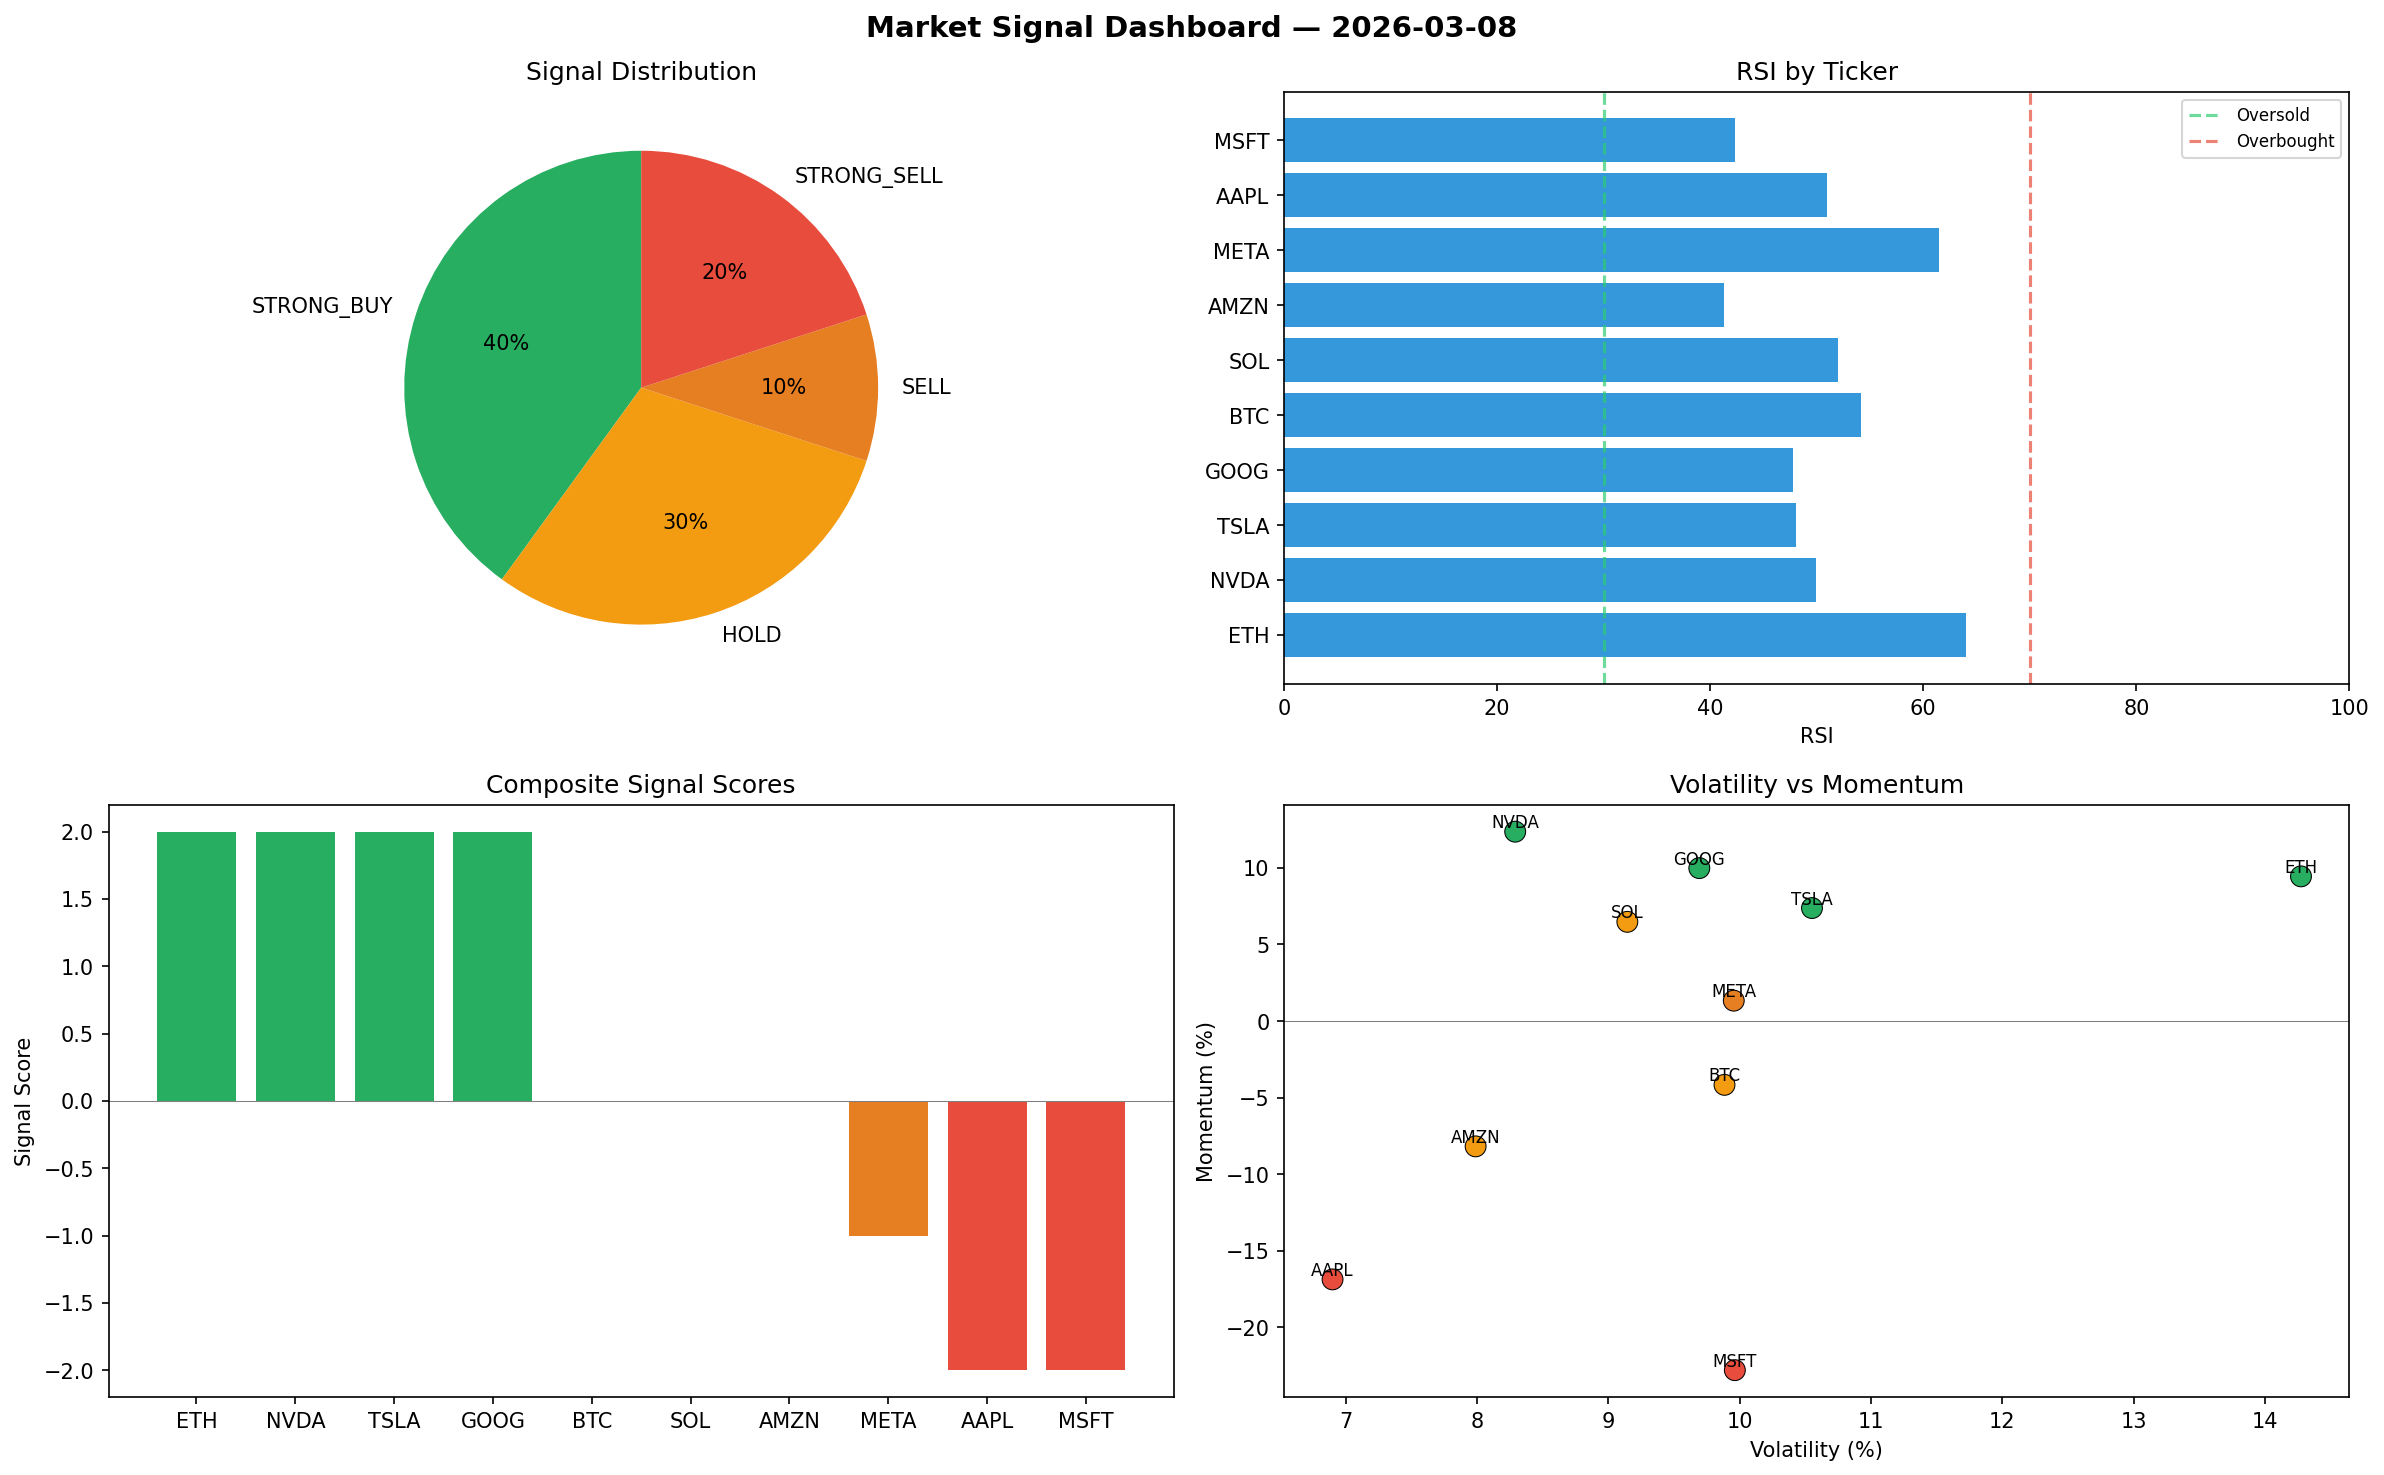
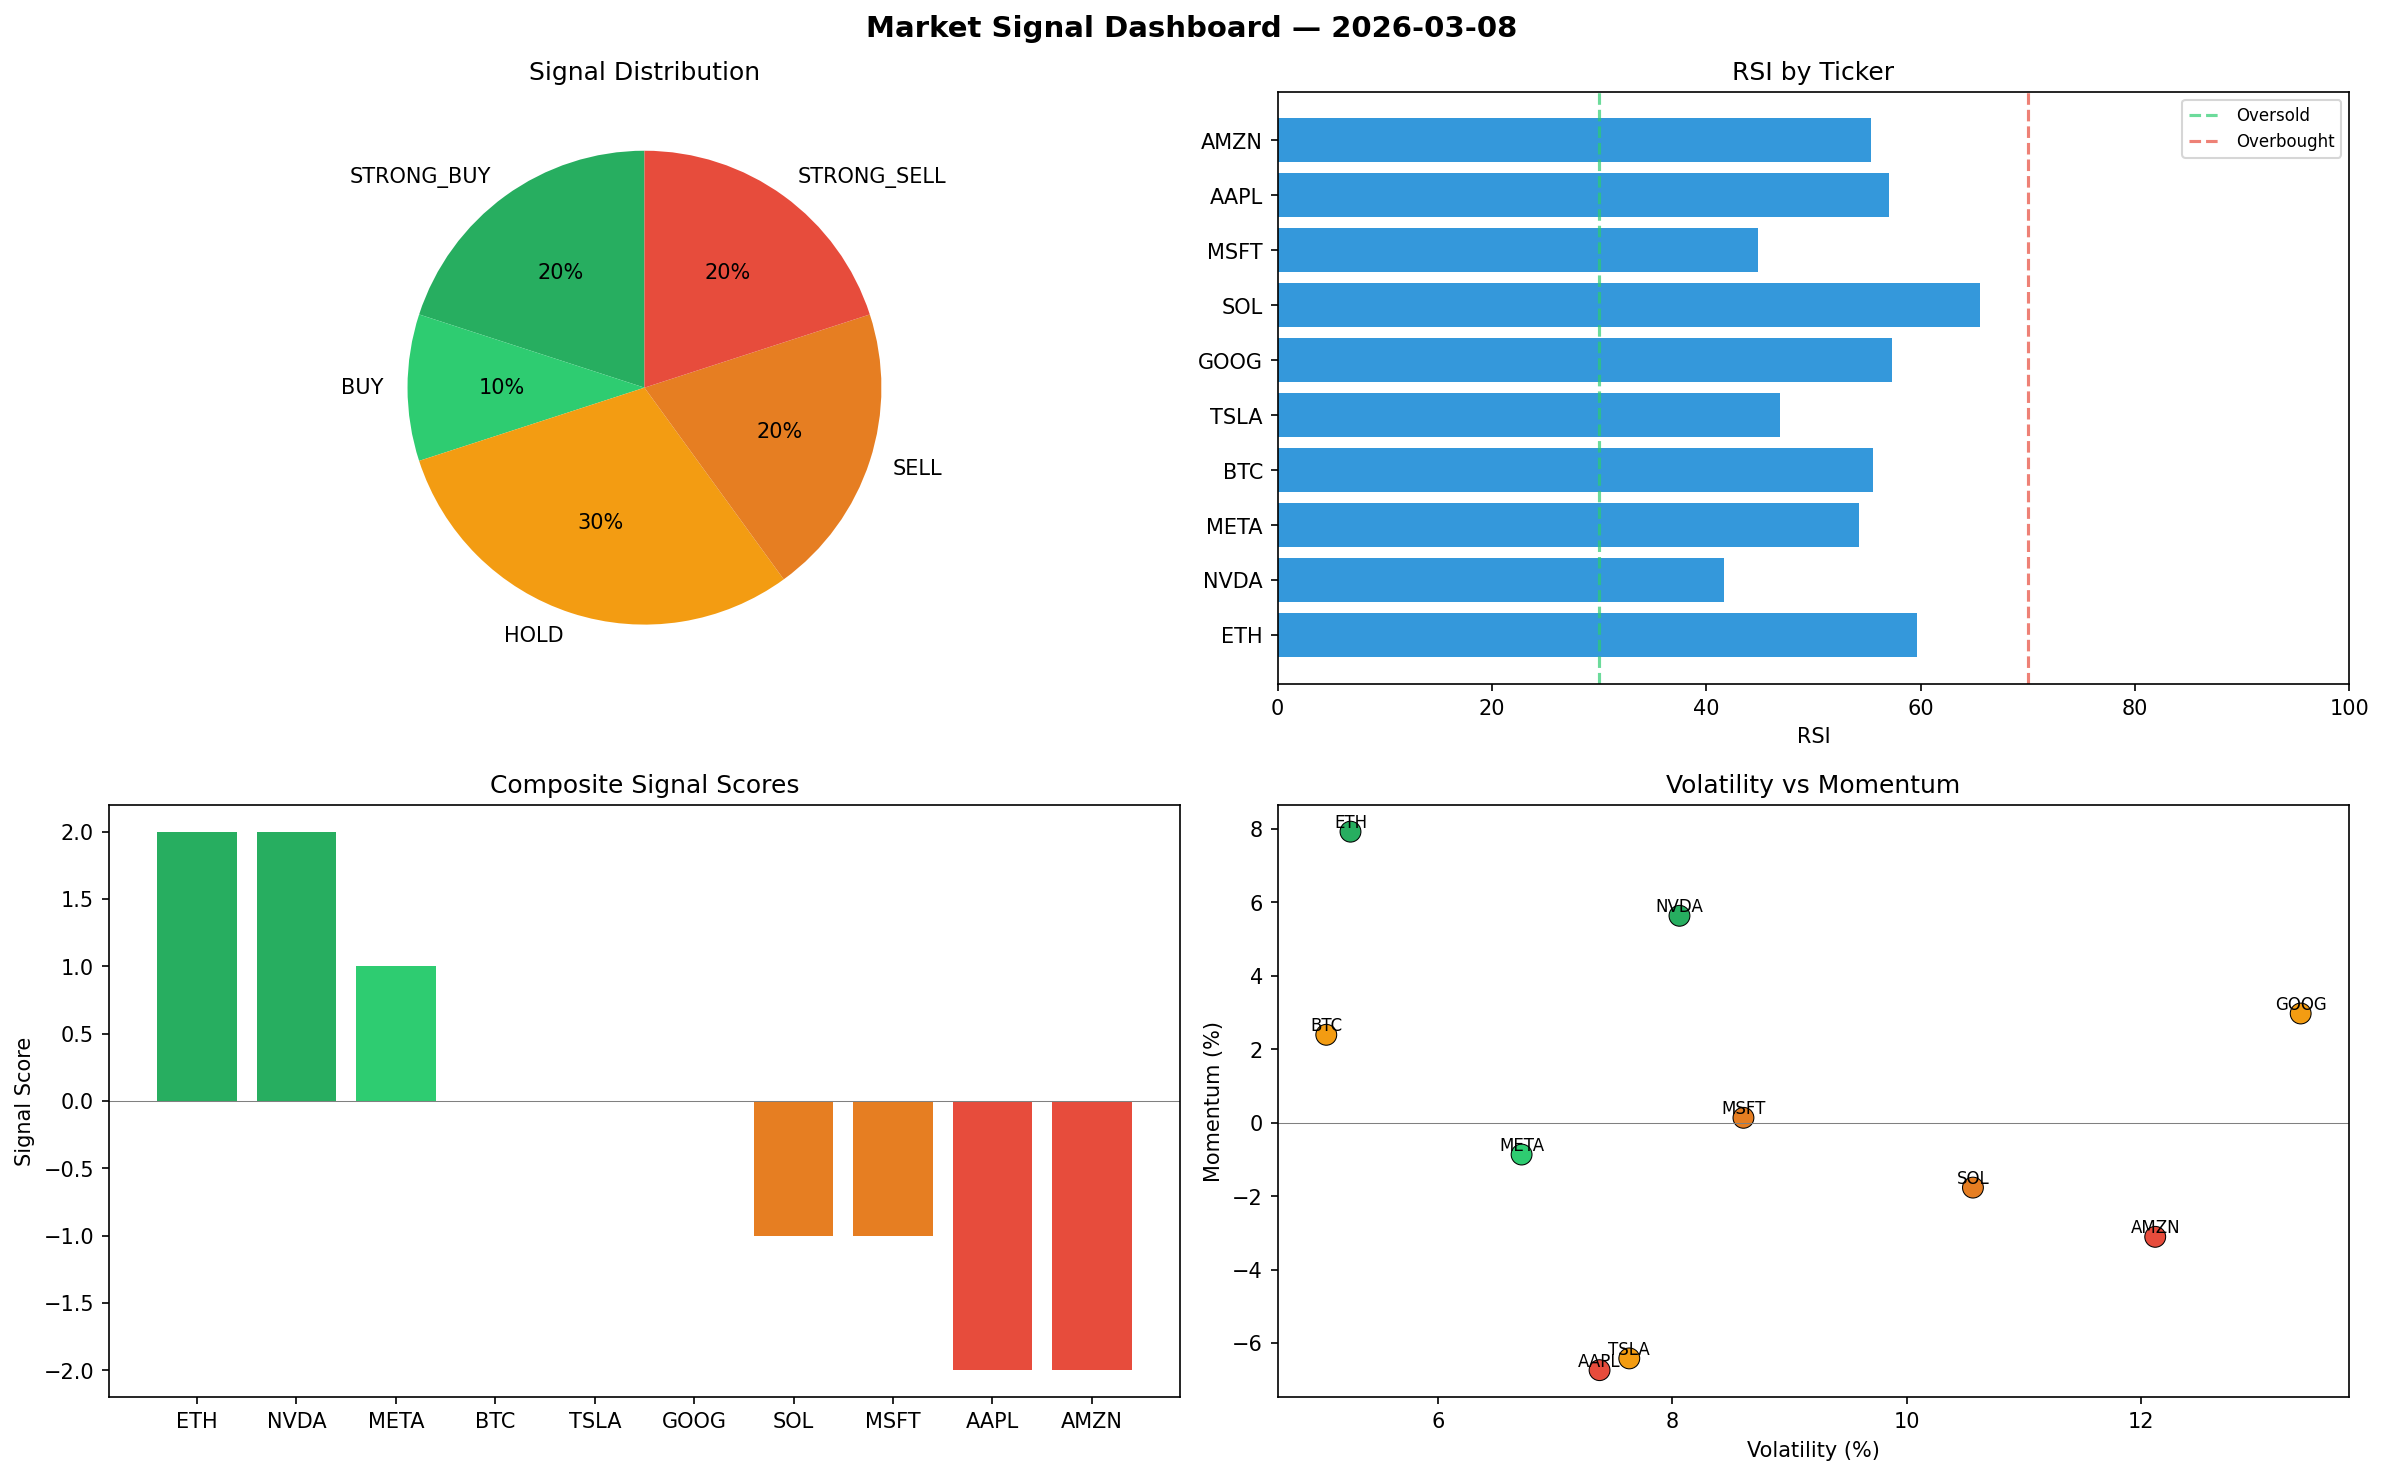
automated-bots: market signals 2026-03-08T20:46

diff --git a/logs/2026-03-08.md b/logs/2026-03-08.md
@@ -1,6 +1,6 @@
 # Market Signal Report — 2026-03-08
 
-**Run ID:** `4c70a48066` | **Buy:** 4 | **Sell:** 3 | **Hold:** 3
+**Run ID:** `19acd85d9d` | **Buy:** 3 | **Sell:** 4 | **Hold:** 3
 
 ![Dashboard](2026-03-08_dashboard.png)
 
@@ -8,28 +8,28 @@
 
 | Ticker | Price | Signal | Score | RSI | Momentum | Confidence |
 |--------|-------|--------|-------|-----|----------|------------|
-| ETH | $4402.37 | **STRONG_BUY** | 2 | 64.0 | 0.0945 | 0.5 |
-| NVDA | $2982.75 | **STRONG_BUY** | 2 | 49.97 | 0.1237 | 0.5 |
-| TSLA | $4287.4 | **STRONG_BUY** | 2 | 48.01 | 0.0738 | 0.5 |
-| GOOG | $1172.83 | **STRONG_BUY** | 2 | 47.74 | 0.0999 | 0.5 |
-| BTC | $2335.77 | **HOLD** | 0 | 54.17 | -0.0417 | 0.0 |
-| SOL | $4493.51 | **HOLD** | 0 | 51.98 | 0.0648 | 0.0 |
-| AMZN | $2524.47 | **HOLD** | 0 | 41.27 | -0.0819 | 0.0 |
-| META | $3491.34 | **SELL** | -1 | 61.47 | 0.0133 | 0.25 |
-| AAPL | $4269.29 | **STRONG_SELL** | -2 | 50.95 | -0.1688 | 0.5 |
-| MSFT | $1373.51 | **STRONG_SELL** | -2 | 42.29 | -0.2281 | 0.5 |
+| ETH | $3613.36 | **STRONG_BUY** | 2 | 59.68 | 0.0792 | 0.5 |
+| NVDA | $4076.86 | **STRONG_BUY** | 2 | 41.65 | 0.0563 | 0.5 |
+| META | $65.77 | **BUY** | 1 | 54.24 | -0.0087 | 0.25 |
+| BTC | $4536.34 | **HOLD** | 0 | 55.59 | 0.0239 | 0.0 |
+| TSLA | $4135.2 | **HOLD** | 0 | 46.92 | -0.0642 | 0.0 |
+| GOOG | $2950.58 | **HOLD** | 0 | 57.31 | 0.0297 | 0.0 |
+| SOL | $4317.14 | **SELL** | -1 | 65.53 | -0.0177 | 0.25 |
+| MSFT | $2247.27 | **SELL** | -1 | 44.83 | 0.0013 | 0.25 |
+| AAPL | $183.05 | **STRONG_SELL** | -2 | 57.03 | -0.0674 | 0.5 |
+| AMZN | $144.94 | **STRONG_SELL** | -2 | 55.4 | -0.0311 | 0.5 |
 
 ## Delta vs Yesterday
 
 | Ticker | Today | Yesterday | Price Change | Signal Changed |
 |--------|-------|-----------|-------------|----------------|
-| ETH | STRONG_BUY | HOLD | 📈 26.05% | ⚠ YES |
-| NVDA | STRONG_BUY | BUY | 📉 -34.64% | ⚠ YES |
-| TSLA | STRONG_BUY | BUY | 📈 98.06% | ⚠ YES |
-| GOOG | STRONG_BUY | STRONG_SELL | 📉 -73.03% | ⚠ YES |
-| BTC | HOLD | STRONG_SELL | 📉 -50.01% | ⚠ YES |
-| SOL | HOLD | HOLD | 📈 66.81% | — |
-| AMZN | HOLD | STRONG_BUY | 📈 38.39% | ⚠ YES |
-| META | SELL | STRONG_SELL | 📉 -13.43% | ⚠ YES |
-| AAPL | STRONG_SELL | SELL | 📈 671.14% | ⚠ YES |
-| MSFT | STRONG_SELL | STRONG_BUY | 📉 -36.3% | ⚠ YES |
+| ETH | STRONG_BUY | HOLD | 📈 3.46% | ⚠ YES |
+| NVDA | STRONG_BUY | BUY | 📉 -10.67% | ⚠ YES |
+| META | BUY | STRONG_SELL | 📉 -98.37% | ⚠ YES |
+| BTC | HOLD | STRONG_SELL | 📉 -2.9% | ⚠ YES |
+| TSLA | HOLD | BUY | 📈 91.03% | ⚠ YES |
+| GOOG | HOLD | STRONG_SELL | 📉 -32.15% | ⚠ YES |
+| SOL | SELL | HOLD | 📈 60.26% | ⚠ YES |
+| MSFT | SELL | STRONG_BUY | 📈 4.22% | ⚠ YES |
+| AAPL | STRONG_SELL | SELL | 📉 -66.94% | ⚠ YES |
+| AMZN | STRONG_SELL | STRONG_BUY | 📉 -92.05% | ⚠ YES |
